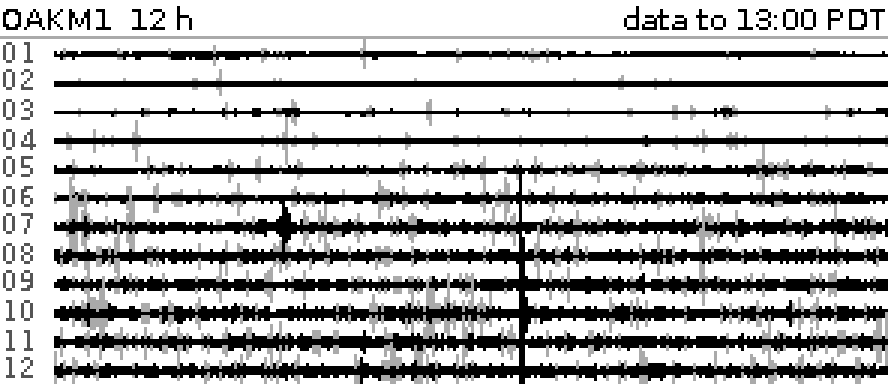
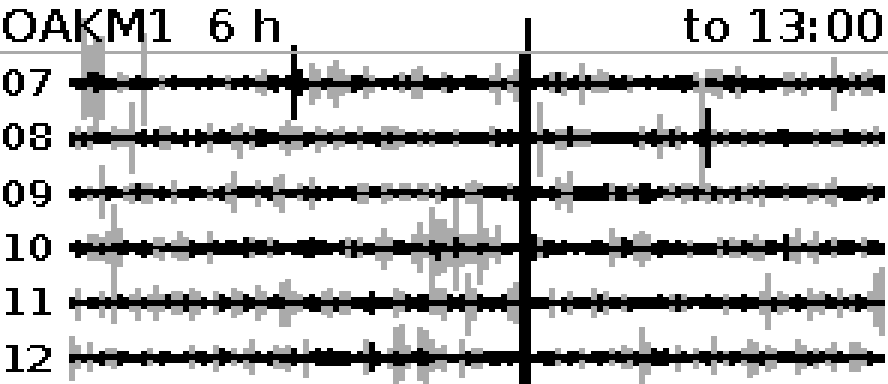
magtag: size for the panel, not the pixel grid
296 px across ~67 mm is 0.23 mm a pixel, so 9 px text was 1.5 mm tall and
twelve rows were hairlines. Six rows, ~3 mm bold capitals, 2 px trace columns.
The header now blanks its strip -- the M3.5's swing was writing through it.

diff --git a/dashboard/magtag.py b/dashboard/magtag.py
@@ -30,7 +30,7 @@ W, H = 296, 128
 BLACK, DARK, LIGHT, WHITE = 0, 1, 2, 3
 PALETTE = [(0, 0, 0), (0x55, 0x55, 0x55), (0xAA, 0xAA, 0xAA), (0xFF, 0xFF, 0xFF)]
 
-HOURS = float(os.environ.get("SEISMO_MAGTAG_HOURS", "12"))
+HOURS = float(os.environ.get("SEISMO_MAGTAG_HOURS", "6"))
 ENV_FRAC = float(os.environ.get("SEISMO_MAGTAG_ENV_FRAC", "0.12"))
                                    # median RE-BINNED column excursion -> this fraction
                                    # of a row (~1 px on a 10 px row): a visible noise
@@ -40,10 +40,15 @@ TZ = os.environ.get("SEISMO_MAGTAG_TZ", "America/Los_Angeles")
                                    # LOCAL time, unlike the big drum's UTC: this sits on a
                                    # desk and gets read as "that was at 3 am".
 ROW_S = 3600
-HEADER_H = 12
-LABEL_W = 16
+# Sized for the PANEL, not the pixel grid: 296 px across ~67 mm is 0.23 mm a pixel,
+# so the first cut's 9 px text was 1.5 mm tall and each column a hairline. Text is now
+# ~3 mm capitals, and a trace column is COL_W px (~0.45 mm) so it reads as ink.
+HEADER_H = 17
+LABEL_W = 21
+COL_W = 2
 PLOT_X0 = LABEL_W + 2
-PLOT_W = W - PLOT_X0
+PLOT_W = (W - PLOT_X0) // COL_W * COL_W
+NCOL = PLOT_W // COL_W
 PLOT_Y0 = HEADER_H + 1
 PLOT_H = H - PLOT_Y0
 
@@ -56,10 +61,10 @@ def _tz():
         return datetime.timezone.utc
 
 
-def _font(size):
+def _font(size, bold=True):
     # DejaVu ships inside matplotlib, which the image already carries.
     import matplotlib
-    path = os.path.join(matplotlib.get_data_path(), "fonts", "ttf", "DejaVuSans.ttf")
+    path = os.path.join(matplotlib.get_data_path(), "fonts", "ttf", "DejaVuSans-Bold.ttf" if bold else "DejaVuSans.ttf")
     try:
         return ImageFont.truetype(path, size)
     except OSError:
@@ -113,7 +118,7 @@ def _interval(heli_dir, t0, npix):
 
 
 def _rebin(a, edges, fn):
-    """Reduce columns into PLOT_W bins. fmin/fmax skip NaN unless the whole bin is NaN."""
+    """Reduce columns into NCOL bins. fmin/fmax skip NaN unless the whole bin is NaN."""
     return fn.reduceat(a, edges[:-1])
 
 
@@ -155,7 +160,7 @@ def _render_heli(heli_dir, hours):
     # Re-bin first, THEN scale. Each column is now the extreme of ~13 s of envelope,
     # which runs several times the interval's median excursion (`env`): keying the
     # scale to `env`, as the big drum does, filled every daytime row solid.
-    edges = np.linspace(0, per_row * npix, PLOT_W + 1).astype(int)
+    edges = np.linspace(0, per_row * npix, NCOL + 1).astype(int)
     with np.errstate(invalid="ignore", all="ignore"):
         for r in rows:
             for key, fn in (("mins", np.fmin), ("maxs", np.fmax),
@@ -178,7 +183,7 @@ def _render_heli(heli_dir, hours):
     img.putpalette([c for rgb in PALETTE for c in rgb])
     dr = ImageDraw.Draw(img)
     dr.fontmode = "1"                                   # no anti-aliasing on e-ink
-    f_small, f_head = _font(9), _font(10)
+    f_small, f_head = _font(13), _font(15)
 
     for i, r in enumerate(rows):
         base = PLOT_Y0 + (i + 0.5) * row_h
@@ -186,20 +191,21 @@ def _render_heli(heli_dir, hours):
             lo, hi = squash(k * r["mins"]), squash(k * r["maxs"])
             clo, chi = squash(k * r["lo_mins"]), squash(k * r["lo_maxs"])
         cult = r["cult"]
-        for x in range(PLOT_W):
+        for x in range(NCOL):
             if not (np.isfinite(lo[x]) and np.isfinite(hi[x])):
                 continue
-            X = PLOT_X0 + x
+            X = PLOT_X0 + x * COL_W
             y0, y1 = round(base - hi[x]), round(base - lo[x])
             if cult[x]:
                 # Faded halo is the >15 Hz (local) part; the 1-8 Hz core stays black.
-                dr.line((X, y0, X, y1), fill=LIGHT)
+                dr.rectangle((X, y0, X + COL_W - 1, y1), fill=LIGHT)
                 if np.isfinite(clo[x]) and np.isfinite(chi[x]):
-                    dr.line((X, round(base - chi[x]), X, round(base - clo[x])), fill=BLACK)
+                    dr.rectangle((X, round(base - chi[x]), X + COL_W - 1,
+                                  round(base - clo[x])), fill=BLACK)
             else:
-                dr.line((X, y0, X, y1), fill=BLACK)
+                dr.rectangle((X, y0, X + COL_W - 1, y1), fill=BLACK)
         lbl = datetime.datetime.fromtimestamp(row_t0s[i], tz).strftime("%H")
-        dr.text((0, base), lbl, font=f_small, fill=DARK, anchor="lm")
+        dr.text((0, base), lbl, font=f_small, fill=BLACK, anchor="lm")
 
     # USGS catalog: a small caret at the PREDICTED arrival, dark grey so it never
     # reads as trace. Only tiers that had a real chance of showing up.
@@ -217,15 +223,17 @@ def _render_heli(heli_dir, hours):
         i = int((ta - t_lo) // ROW_S)
         X = PLOT_X0 + int((ta - row_t0s[i]) / ROW_S * PLOT_W)
         y = PLOT_Y0 + (i + 1) * row_h - 1
-        dr.polygon([(X, y - 3), (X - 2, y), (X + 2, y)], fill=DARK)
+        dr.polygon([(X, y - 5), (X - 4, y), (X + 4, y)], fill=DARK)
 
     # Header: station + span on the left, freshness on the right.
     last = rows[-1]["maxs"]
     valid = np.nonzero(np.isfinite(last))[0]
     t_end = row_t0s[-1] + ((valid[-1] + 1) / last.size * ROW_S if valid.size else 0)
     end = datetime.datetime.fromtimestamp(t_end, tz)
+    # Blank the strip first: a big event's asinh swing runs up through it.
+    dr.rectangle((0, 0, W - 1, HEADER_H), fill=WHITE)
     dr.text((0, 0), f"{heli_render.STATION}  {n_rows} h", font=f_head, fill=BLACK)
-    dr.text((W - 1, 0), f"data to {end:%H:%M %Z}", font=f_head, fill=BLACK, anchor="ra")
+    dr.text((W - 1, 0), f"to {end:%H:%M}", font=f_head, fill=BLACK, anchor="ra")
     dr.line((0, HEADER_H, W - 1, HEADER_H), fill=LIGHT)
     return _to_bmp(img)
 
